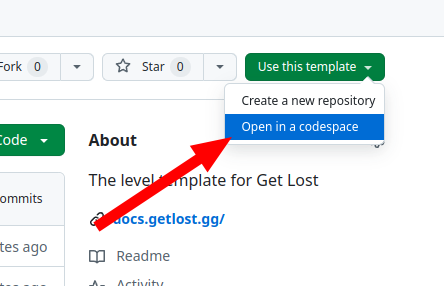
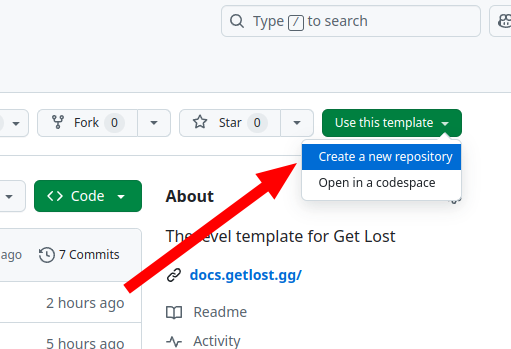
updates

diff --git a/level/code/main.ts b/level/code/main.ts
@@ -75,19 +75,11 @@ export function tileCollisionEvent(
 }
 
 let sawOasisSign = false;
-let lightState = false;
 
 // Called when a sensor is triggered.
 export function sensorEvent(name: string, entered: bool): void {
   log(`Sensor event: ${name}, ${entered}`);
-  if (name === "lamp") {
-    if (entered) {
-      lightState = !lightState;
-    }
-    host.tiles.change(7, 3, "ground objects", "Props", lightState ? 22 : 23);
-    host.tiles.change(7, 4, "ground objects", "Props", lightState ? 56 : 57);
-    host.lights.toggleLight("lamp", lightState);
-  } else if (name === "oasis" && entered && !sawOasisSign) {
+  if (name === "oasis" && entered && !sawOasisSign) {
     host.text.displaySign("oasis-entry-title", "oasis-entry-body");
     sawOasisSign = true;
   } else if (name === "well" && entered) {
@@ -96,9 +88,11 @@ export function sensorEvent(name: string, entered: bool): void {
       "step-back",
     ]);
   } else if (name === "exit-east" && entered) {
-    host.map.exit("main", false);
-  } else if (name === "down-exit" && entered) {
-    host.map.exit("alt", true);
+    host.map.exit("east", false);
+  } else if (name === "exit-west" && entered) {
+    host.map.exit("west", false);
+  } else if (name === "exit-south" && entered) {
+    host.map.exit("south", false);
   }
 }
 

diff --git a/src/constants.ts b/src/constants.ts
@@ -1,2 +1,4 @@
-export const gameUrl = "https://game-qa.getlost.gg/"; // FIXME
-// export const gameUrl = "http://localhost:5174";
+export const localDev = window.location.hostname === "localhost";
+export const gameUrl = localDev
+  ? "http://localhost:5174"
+  : "https://game-qa.getlost.gg/"; // FIXME

diff --git a/level/code/exits.ts b/level/code/exits.ts
@@ -5,9 +5,6 @@ import { Exit } from "@gl/types/exit";
 export function exits(): Exit[] {
   return [
     {
-      name: "main",
-    },
-    {
       name: "east",
     },
     {

diff --git a/README.md b/README.md
@@ -1,19 +1,21 @@
 # Get Lost Level template
 
-https://docs.getlost.gg/latest/
+Welcome! This is a basic level template for the [Get Lost](https://x.com/GetLostTheGame) platform. It provides you with everything you need to start developing a level and playtesting it. Included is a sample map built with the incredible [CC0](https://creativecommons.org/public-domain/cc0/) asset pack [Ninja Adventure](https://pixel-boy.itch.io/ninja-adventure-asset-pack) from the French game dev brothers [Pixel Boy](https://x.com/2Pblog1).
+
+[Full docs](https://docs.getlost.gg/latest/)
+
+![Tiled preview](./docs/img/tiled-preview.png)
 
 ## To use this template
 
-If you're reading this README directly from the `amoffat/getlost-level-template` repo, follow these instructions.
-
-First scroll to the top of the page and click `Use this template` and select `Open in a codespace`.
+If you're reading this README directly from the `amoffat/getlost-level-template` template repo, scroll to the top of the page and click `Use this template` and select `Create a new repository`.
 
 ![Create codespace](./docs/img/create-codespace.png)
 
 ## To use the codespace
 
-If you're reading this README from inside your codespace, or from a repo created from the `amoffat/getlost-level-template` repo, follow these instructions.
+If you're reading this README from inside your codespace, or from a repo created from the [template repo](https://github.com/amoffat/getlost-level-template), follow these instructions. First, open your repo in a Codespace.
 
-First, delete the section of this README for `To use this template`, since it is no longer necessary and will only confuse people.
+![Open codespace](./docs/img/open-in-codespace.png)
 
-Next, go to the `Ports` tab of VSCode
+The Codespace will take a minute to fully load and open, but when it's done, you'll see a typical VSCode editor in the browser. Next, you'll want to navigate to the `ports` tab at the bottom.
